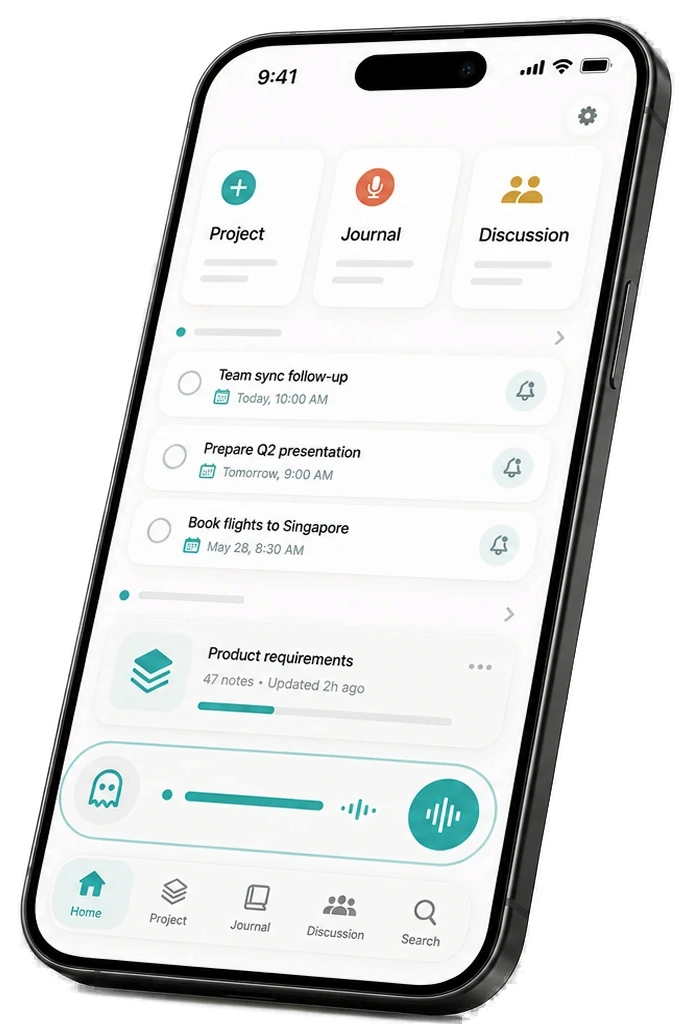
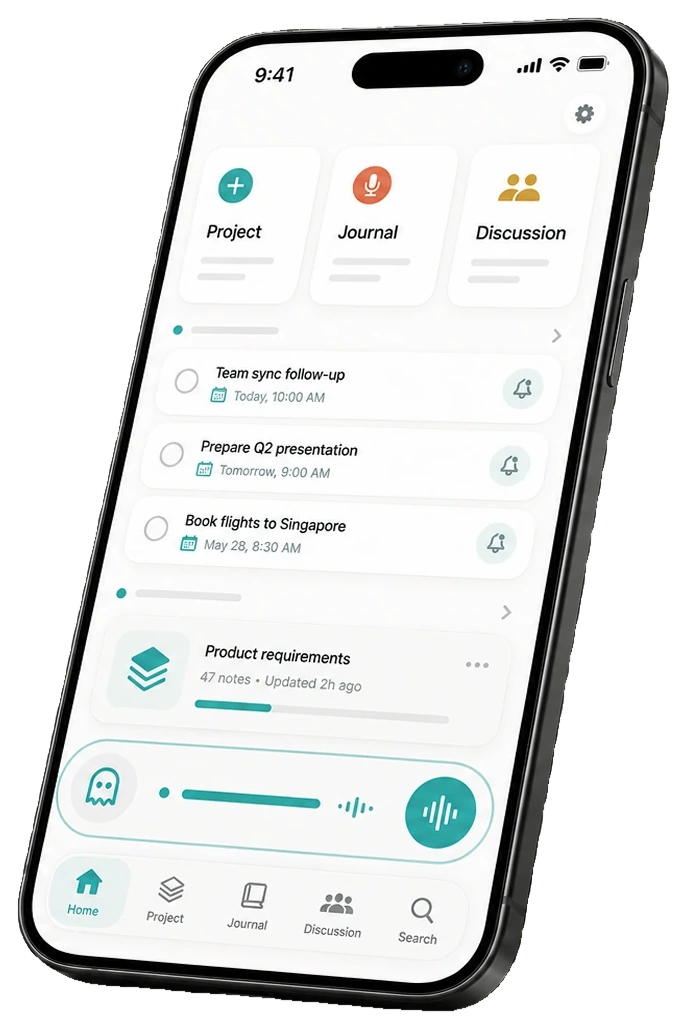
Regenerate hero cutouts from SAM 3 masks
Replace the rembg cutouts with ones cut from the SAM 3 segmentation
masks applied to the original renders. The mask is dilated ~1px so the
phone's full outer edge is preserved with no rim, then lightly feathered.

diff --git a/index.html b/index.html
@@ -37,7 +37,7 @@
         }
       })();
     </script>
-    <link rel="stylesheet" href="styles.css?v=20260605l" />
+    <link rel="stylesheet" href="styles.css?v=20260605n" />
   </head>
   <body>
     <header class="site-header" aria-label="Primary navigation">
@@ -97,14 +97,14 @@
           <picture>
             <source
               class="hero-product-source-dark"
-              srcset="assets/hero/miloflow-dynamic-bar-hero-dark.webp?v=20260605d"
+              srcset="assets/hero/miloflow-dynamic-bar-hero-dark.webp?v=20260605n"
               media="(prefers-color-scheme: dark)"
             />
             <img
               class="hero-product-image"
-              src="assets/hero/miloflow-dynamic-bar-hero-light.webp?v=20260605d"
-              data-light-src="assets/hero/miloflow-dynamic-bar-hero-light.webp?v=20260605d"
-              data-dark-src="assets/hero/miloflow-dynamic-bar-hero-dark.webp?v=20260605d"
+              src="assets/hero/miloflow-dynamic-bar-hero-light.webp?v=20260605n"
+              data-light-src="assets/hero/miloflow-dynamic-bar-hero-light.webp?v=20260605n"
+              data-dark-src="assets/hero/miloflow-dynamic-bar-hero-dark.webp?v=20260605n"
               alt=""
               decoding="async"
               fetchpriority="high"